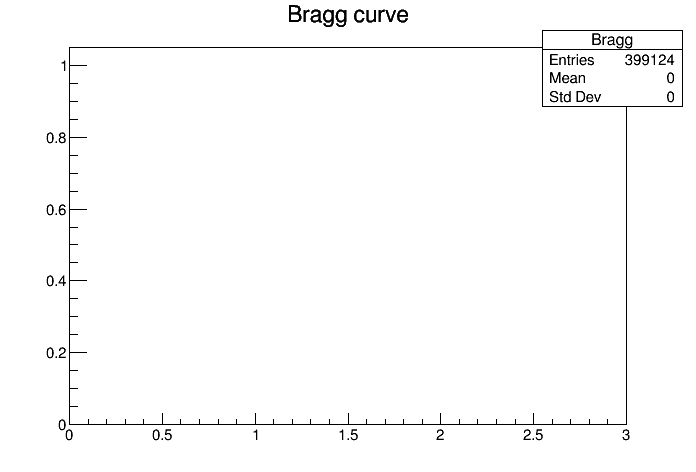
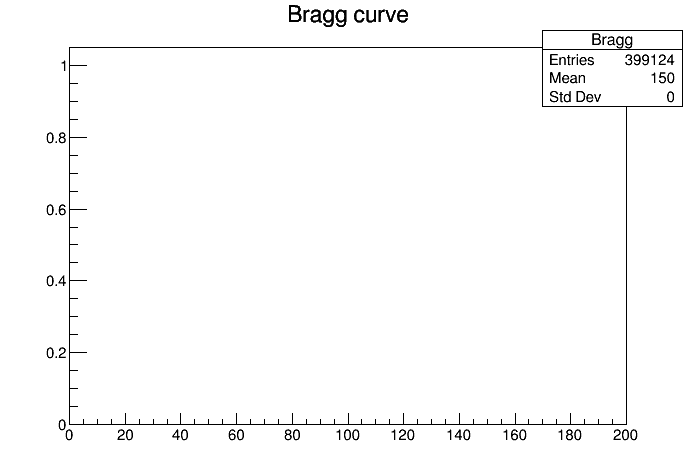
Fix

diff --git a/02-Analysis/01-Code/Analysis.cpp b/02-Analysis/01-Code/Analysis.cpp
@@ -162,7 +162,7 @@ void BraggPeak::PreEventLoop( bool Dbg ) {
   }
   
   // Set up histograms etc. prior to event loop:
-  TH1F *Bragg = new TH1F("Bragg", "Bragg curve", 100, 0., 3.);
+  TH1F *Bragg = new TH1F("Bragg", "Bragg curve", 100, 0., 200.);
   Analysis::TH1Flist.push_back(Bragg);
     
   if ( BraggPeak::getDebug() ) {
